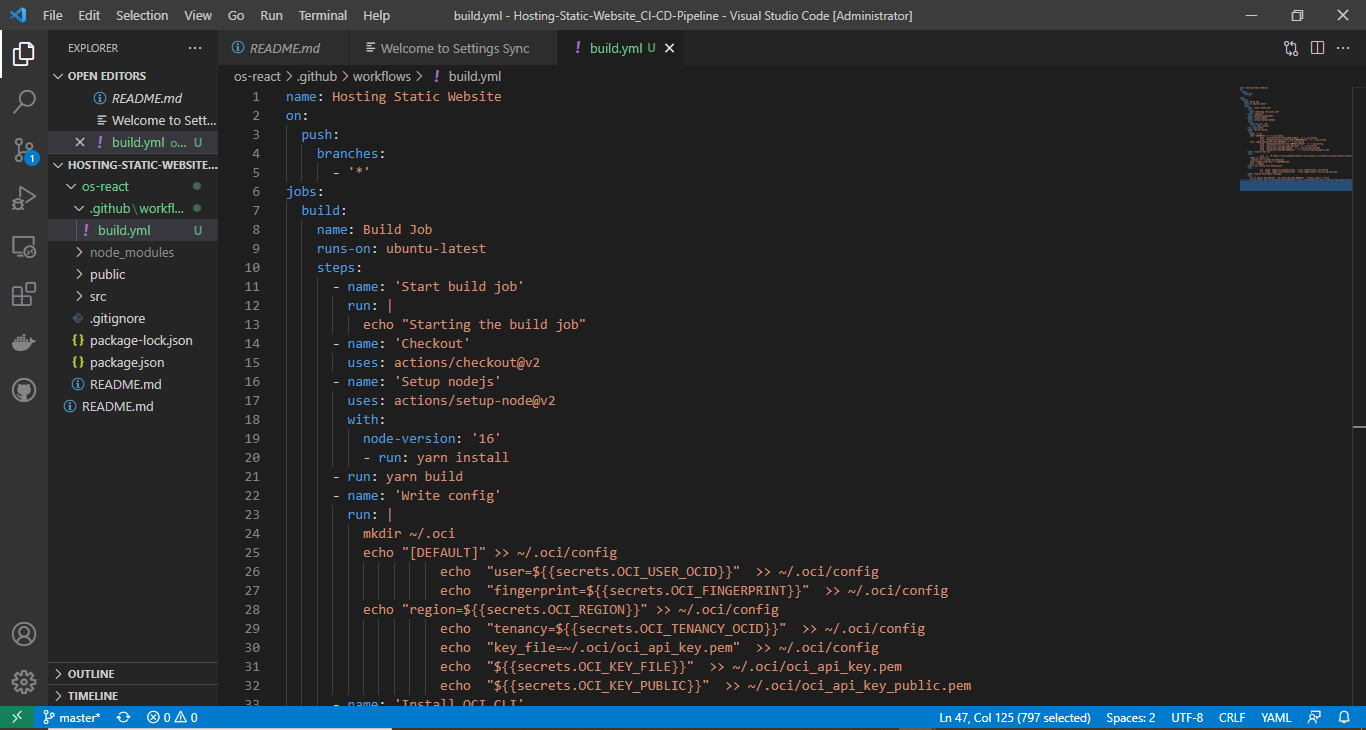
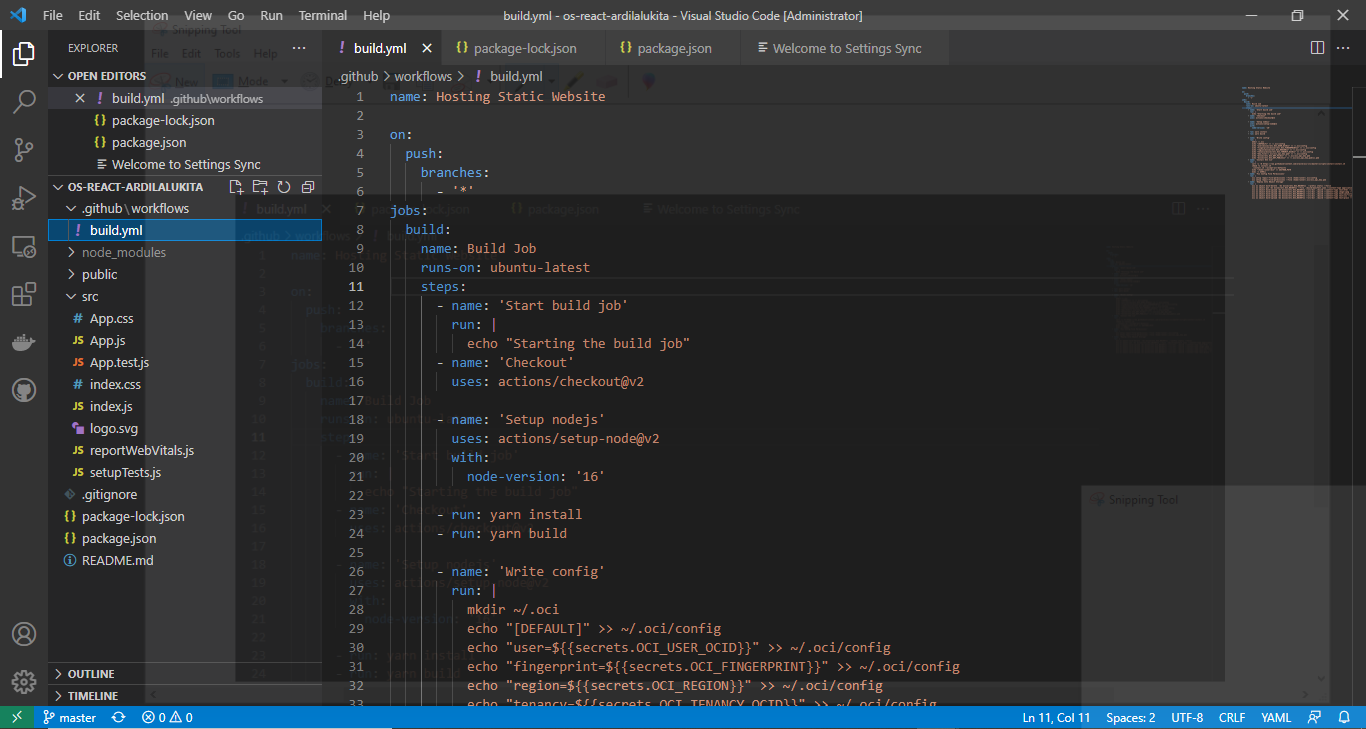
Praktikum Jobsheet 12 - CICD

diff --git a/docs/12_CICD/tugas.md b/docs/12_CICD/tugas.md
@@ -31,15 +31,13 @@ and token.
 1. Pada praktikum ini, akan digunakan React sehingga harus diinstall terlebih dahulu Node. Untuk  langkah  instalasi  Node  silahkan  gunakan  tautan  berikut  sebagai  referensi https://nodejs.org/en/download/ atau https://nodejs.org/en/download/package-manager/.<br><br>
 ![Screenshot](img2/langkah7.png)<br>
 
-3. Setelah Node terinstall, silahkan lakukan Langkah generate project dengan menggunakan perintah berikut.<br><br>
+2. Setelah Node terinstall, silahkan lakukan Langkah generate project dengan menggunakan perintah berikut.<br><br>
 ![Screenshot](img2/langkah8.png)<br>
-y
-4. Buatlah repository pada GitHub kemudian push project tersebut ke dalam repository.<br><br>
-![Screenshot](img2/langkah7a.png)<br>
+
+3. Buatlah repository pada GitHub kemudian push project tersebut ke dalam repository.<br>
 <br>
 ![Screenshot](img2/langkah9.png)<br>
-![Screenshot](img2/langkah10.png)<br>
-
+![Screenshot](img2/langkah7a.png)<br>
 ### 1.2. Menambahkan GitHub Workflow
 1. Pipeline  CI/CD  pada  GitHub  dibuat  dengan format  yaml  dan  diletakkan  pada  lokasi .github/workflows.  Buatlah  file  yaml  pada  lokasi  tersebut,  sebagai  ilustrasi  silahkan perhatikan filename berikut.<br>
 <br>
@@ -62,11 +60,38 @@ repository GitHub.<br>
 <br>
 ![Screenshot](img2/langkah15.png)<br>
 
+6. Lengkapi nilai semua secrets yang dibutuhkan. Kemudian push perubahan ke repository 
+GitHub.
+Berikut hasil konfigurasi nilai secrets :<br>
+<br>
+![Screenshot](img2/langkah27.png)<br>
+
+7. Perhatikan tab Actions pada halaman repository. Cek hasil proses deployment apakah terdapat kesalahan. Jika terjadi kesalahan, koreksi kembali nilai secrets yang dimasukkan.
+
+    Disini kita coba untuk push file <b>build.yml</b> yang nantinya akan membantu memeriksa keberhasilan proses deploy<br><br>
+![Screenshot](img2/langkah28.png)<br>
+    Jika berhasil, maka tampilan pada tab actions akan seperti berikut:<br><br>
+![Screenshot](img2/langkah29.png)<br>
+
+8. Jika proses deployment sudah mendapatkan tanda centang hijau,silahkan kembali ke dashboard bucket object storage. Centang berkas index.html, kemudian tekan menu titik tiga dan pilih View Object Details. Perhatikan URL Path dengan pola sebagai berikut https://objectstorage.<region>.oraclecloud.com/n/<namespace>/b/<bucket-name>/o/index.html.<br><br>
+![Screenshot](img2/langkah30.png)<br>
+![Screenshot](img2/langkah31.png)<br>
+
+9. Salin URL Path tanpa nilai index.html, kemudian buka kembali project React. Cari berkas 
+package.json  dan  tambahkan  key  “homepage”  dengan  nilai  URL  Path  pada  Object 
+Details. Ilustrasi berkas hasil akhir package.json dapat dilihat sebagai berikut.<br><br>
+![Screenshot](img2/langkah32.png)<br>
+
+<b>Hasil : </b>
+<br><br>
+![Screenshot](img2/langkah33.png)<br><br>
+
+
 ### 2. Deploy Simple Website Menggunakan Docker CI/CD Pipeline
 
-Pada praktikum ini akan dilakukan proses deploy pada OCI Compute dengan menggunakan 
-docker. Pada Langkah di bawah mengasumsikan telah dibuat VCN dengan akses pada port HTTP 
-(80). Selain itu diasumsikan telah mempunyai akun docker hub.
+    Pada praktikum ini akan dilakukan proses deploy pada OCI Compute dengan menggunakan 
+    docker. Pada Langkah di bawah mengasumsikan telah dibuat VCN dengan akses pada port HTTP 
+    (80). Selain itu diasumsikan telah mempunyai akun docker hub.
 
 ### 2.1. Menyiapkan Project Repository
 
@@ -74,7 +99,7 @@ a. Buat baru project React dengan memasukkan perintah.<br>
 <br>
 ![Screenshot](img2/langkah19.png)<br>
 
-b. Buatlah project baru pada GitHub, dan push project React tersebut.br>
+b. Buatlah project baru pada GitHub, dan push project React tersebut.<br>
 <br>
 ![Screenshot](img2/langkah20.png)<br>
 
@@ -109,3 +134,47 @@ docker/raw/master/.github/workflows/deploy.yml dan simpan pada lokasi tersebut.<
 yang diawali prefix OCI_ dapat digunakan table sebelumnya sebagai referensi.<br>
 <br>
 ![Screenshot](img2/langkah27.png)<br>
+
+4. Perhatikan table berikut sebagai referensi untuk pengisian nilai secrets.<br>
+<br>
+![Screenshot](img2/langkah34.png)<br>
+![Screenshot](img2/langkah35.png)<br>
+
+### 2.4. Menyiapkan Dockerfile
+
+1. Buatlah  berkas  dengan  nama  Dockerfile.  Gunakan  tautan  berikut.
+https://github.com/dhanifudin/hello-react-docker/blob/master/Dockerfile  sebagai template.
+2. Pastikan penamaan berkas sudah sesuai.<br>
+<br>
+![Screenshot](img2/langkah36.png)<br>
+![Screenshot](img2/langkah37.png)<br>
+
+
+### 2.5. Menyiapkan Docker Compose
+
+1. Buatlah berkas dengan nama docker-compose.yml.<br>
+<br>
+![Screenshot](img2/langkah38.png)<br>
+2. Gunakan  tautan  https://github.com/dhanifudin/hello-react-docker/blob/master/docker-
+compose.yml sebagai referensi untuk membuat docker-compose.yml. Jangan lupa untuk 
+mengubah nilai image sesuai dengan username docker hub.<br>
+<br>
+![Screenshot](img2/langkah39.png)<br>
+
+### 2.6. Melakukan Deployment
+
+1. Setelah  berkas  deployment  dan  nilai  secrets  telah  selesai  diatur,  lakukan  push  ke repository.<br>
+<br>
+![Screenshot](img2/langkah43.png)<br>
+
+2. Amati log deployment pada tab Actions, dan pastikan proses menghasilkan tanda centang 
+hijau. Jika terjadi error, periksa kembali konfigurasi dan nilai secrets yang dimasukkan.<br><br>
+![Screenshot](img2/langkah40.png)<br>
+
+3. Setelah  proses  deployment  berhasil,  untuk  mendapatkan  nilai  IP  public  yang  dapat diakses silahkan masuk ke dashboard pada halaman Compute Instances.<br>
+<br>
+![Screenshot](img2/langkah41.png)<br>
+
+4. Pada hasil akhir, jika tidak terdapat kesalahan akan didapatkan halaman website seperti pada gambar berikut.<br>
+<br>
+![Screenshot](img2/langkah42.png)<br>
